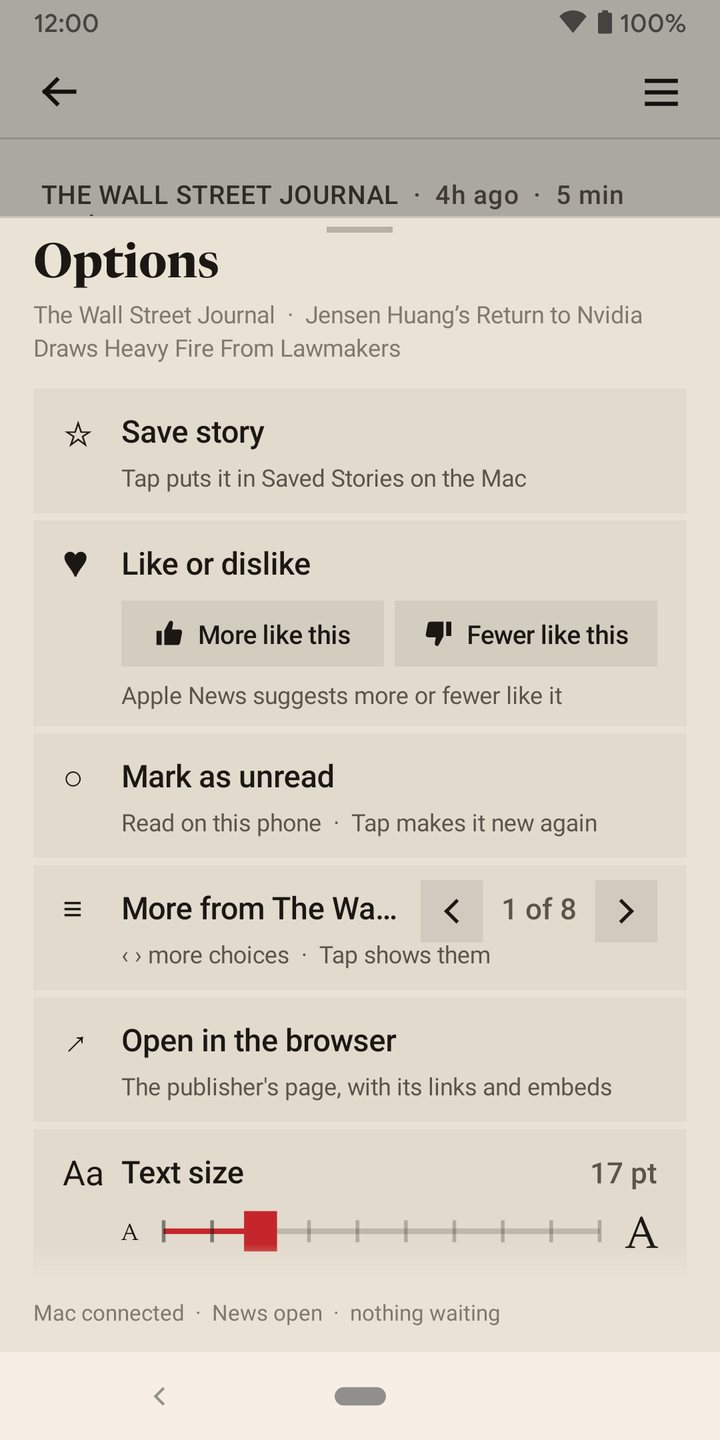
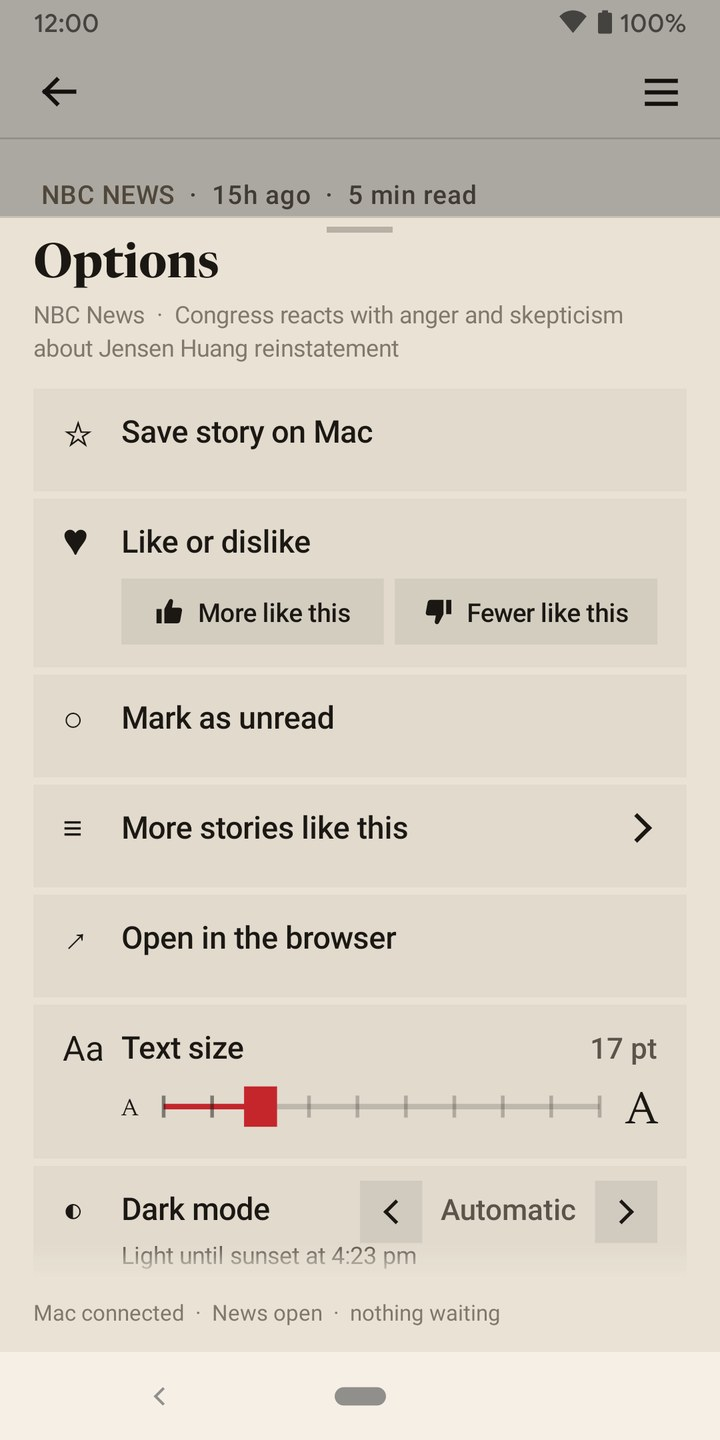
More on: hide Apple's bookkeeping tags; phone stepper without a gap
Stories carry tags like "Internal: Spinach" (35 of 54 stories on the relay),
"Qualitative: …", "LLM Politics", "NewsS" and "… EdOps"; they showed up as
"More on …" rows in the new pop-up. Article.reader / Article.Reader drop them
when the story is parsed, on Android and Windows.

Phone: Stories you've read has no value any more, so its ‹ › now sit side by
side instead of around an empty gap.

Retook docs/phone/options.jpg and added docs/phone/more-like-this.jpg on the
Pixel 3.

Parity: none

diff --git a/windows/src/Model.cs b/windows/src/Model.cs
@@ -150,6 +150,16 @@ namespace Broadsheet
         public readonly List<Block> Blocks = new List<Block>();
         /// <summary>The story's topics as {id, name}, for "More on …".</summary>
         public readonly List<string[]> Topics = new List<string[]>();
+
+        /// <summary>Whether a topic is one a reader would know. Apple News tags stories with its own
+        /// bookkeeping too ("Internal: Spinach", "Qualitative: High character count", "LLM Politics",
+        /// "Car Tech EdOps", "NewsS"); those never become a "More on …".</summary>
+        public static bool Reader(string name)  // feature: opt.more_from
+        {
+            if (name == null || name.Trim().Length == 0) return false;
+            return !name.StartsWith("Internal:", StringComparison.Ordinal) && !name.StartsWith("Qualitative:", StringComparison.Ordinal)
+                && !name.StartsWith("LLM ", StringComparison.Ordinal) && !name.EndsWith("EdOps", StringComparison.Ordinal) && name != "NewsS";
+        }
         /// <summary>Where the rest of the story starts, when only its opening came; -1 when it's whole.
         /// Moves on as the rest is added (Reader.AppendBlocks).</summary>
         public int NextBlock;
@@ -182,7 +192,7 @@ namespace Broadsheet
                 foreach (object x in t)
                 {
                     JObj o = x as JObj;
-                    if (o != null && o.Str("id") != null && o.Str("name") != null) Topics.Add(new[] { o.Str("id"), o.Str("name") });
+                    if (o != null && o.Str("id") != null && Reader(o.Str("name"))) Topics.Add(new[] { o.Str("id"), o.Str("name") });
                 }
             }
             List<object> a = body == null ? null : body.Arr("blocks");

diff --git a/android/src/io/github/vladislavekimtcov/broadsheet/Article.java b/android/src/io/github/vladislavekimtcov/broadsheet/Article.java
@@ -43,6 +43,17 @@ final class Article {
     final String reaction;
     /** The story's topics as {id, name}, for "More on …". */
     final List<String[]> topics = new ArrayList<>();
+
+    /**
+     * Whether a topic is one a reader would know. Apple News tags stories with its own
+     * bookkeeping too ("Internal: Spinach", "Qualitative: High character count",
+     * "LLM Politics", "Car Tech EdOps", "NewsS"); those never become a "More on …".
+     */
+    static boolean reader(String name) {  // feature: opt.more_from
+        if (name == null || name.trim().isEmpty()) return false;
+        return !name.startsWith("Internal:") && !name.startsWith("Qualitative:") && !name.startsWith("LLM ")
+                && !name.endsWith("EdOps") && !name.equals("NewsS");
+    }
     /** Where the rest of the story starts, when only its opening came; -1 when it's whole.
      *  Moves on as the rest is added ({@link Reader#appendBlocks}). */
     int nextBlock;
@@ -72,7 +83,7 @@ final class Article {
         JSONArray t = data.optJSONArray("topics");
         for (int i = 0; t != null && i < t.length(); i++) {
             JSONObject o = t.optJSONObject(i);
-            if (o != null && Story.str(o, "id") != null && Story.str(o, "name") != null) {
+            if (o != null && Story.str(o, "id") != null && reader(Story.str(o, "name"))) {
                 topics.add(new String[] {o.optString("id"), o.optString("name")});
             }
         }

diff --git a/android/src/io/github/vladislavekimtcov/broadsheet/Options.java b/android/src/io/github/vladislavekimtcov/broadsheet/Options.java
@@ -602,12 +602,13 @@ final class Options extends FrameLayout {  // feature: opt.panel
             c.drawText(v, right - vw, top, value);
             if (stepRight >= 0) {
                 float b = Ui.px(34), by = top - label.getTextSize() * 0.8f - Ui.px(8);
-                stepLeft = right - vw - Ui.px(10) - b;
+                // No value (the setting is named below): the two buttons sit side by side.
+                stepLeft = v.isEmpty() ? stepRight - Ui.px(6) - b : right - vw - Ui.px(10) - b;
                 fill.setColor(Ui.alpha(Ui.INK, tile.enabled ? 0.08f : 0.04f));
                 c.drawRect(stepLeft, by, stepLeft + b, by + b, fill);
                 fill.setColor(Ui.alpha(fg, a));
                 Icons.draw(c, Icons.LEFT, stepLeft + Ui.px(7), by + Ui.px(7), Ui.px(20), fill);
-                vw += b + Ui.px(10);
+                vw = right - stepLeft;
             }
             label.setColor(Ui.alpha(fg, a));
             String l = TextUtils.ellipsize(tile.label, label, right - vw - Ui.px(12) - x, TextUtils.TruncateAt.END).toString();

diff --git a/android/README.md b/android/README.md
@@ -15,7 +15,7 @@ Apple News for Android phones and tablets (Android 7.1 or later), in the same ne
 
 | | | |
 |---|---|---|
-| ![Apple News front page in Broadsheet on an Android phone, light by day: masthead, a strip of sections, a hero story with its headline over the picture, and briefs](../docs/phone/front-light.jpg) | ![The reader on an Android phone: dateline, serif headline, standfirst and the lead picture under a bar with a back arrow and a menu](../docs/phone/reader.jpg) | ![The options sheet on an Android phone: save, like or dislike, mark as unread, more from the publisher, open in the browser and the text size slider](../docs/phone/options.jpg) |
+| ![Apple News front page in Broadsheet on an Android phone, light by day: masthead, a strip of sections, a hero story with its headline over the picture, and briefs](../docs/phone/front-light.jpg) | ![The reader on an Android phone: dateline, serif headline, standfirst and the lead picture under a bar with a back arrow and a menu](../docs/phone/reader.jpg) | ![The options sheet on an Android phone: Save story on Mac, Like or dislike, Mark as unread, More stories like this with a chevron, Open in the browser, the text size slider and Dark mode](../docs/phone/options.jpg) |
 
 - **Front page:** a masthead with ☰, the sections as a strip along the top that scrolls
   sideways (the chosen one lit, with the red bar at its foot), and the section in one column:
@@ -95,6 +95,8 @@ your network by itself.
 ![The options panel over the front page, light by day: Save story on Mac, Like or dislike with thumb icons, Mark as read, More stories like this with a chevron, the text size slider at 21 pt and Dark mode](../docs/tv/options.jpg)
 
 ![More stories like this: a pop-up in the middle of the screen with More from NBC News (45 stories) and Related stories (6 stories), already fetched](../docs/tv/more-like-this.jpg)
+
+![The same pop-up on a phone, over the Options sheet in the reader: More from NBC News, More on Industry News, Politicians and Politics (45 stories each) and Related stories (6)](../docs/phone/more-like-this.jpg)
 
 ![The same front page after sunset, in the dark theme](../docs/tv/front-page-dark.jpg)
 

diff --git a/README.md b/README.md
@@ -52,7 +52,7 @@ refresh. Details and more screenshots: [android/README.md](android/README.md#on-
 
 | | |
 |---|---|
-| ![Apple News reader on an Android phone: a story's headline, standfirst and lead picture in Broadsheet's serif column](docs/phone/reader.jpg) | ![Broadsheet's options sheet on an Android phone: save the story, like or dislike, more from the publisher, text size](docs/phone/options.jpg) |
+| ![Apple News reader on an Android phone: a story's headline, standfirst and lead picture in Broadsheet's serif column](docs/phone/reader.jpg) | ![Broadsheet's options sheet on an Android phone: Save story on Mac, Like or dislike, Mark as unread, More stories like this, Open in the browser, text size and Dark mode](docs/phone/options.jpg) |
 
 ## Apple News on Windows
 

diff --git a/CHANGELOG.md b/CHANGELOG.md
@@ -7,6 +7,11 @@ their own numbers; they're noted where they shipped.
 
 ## Unreleased
 
+- More on …, all ports: Apple News's own bookkeeping tags no longer show up as topics ("More on
+  Internal: Spinach", "More on Qualitative: Business, short shelf life", "LLM Politics", "NewsS",
+  "… EdOps"). In 54 stories on the relay, "Internal: Spinach" was on 35 of them.
+- Phone: Stories you've read has its ‹ › side by side; they had an empty gap between them where
+  the value used to be.
 - Windows: the masthead, section titles, the Options heading and the reader's headline are in
   Newsreader Display again, as on the TV and phone. That cut names its family "Newsreader
   72pt", so asking for "Newsreader" quietly fell back to Segoe UI; each font is now asked for by
